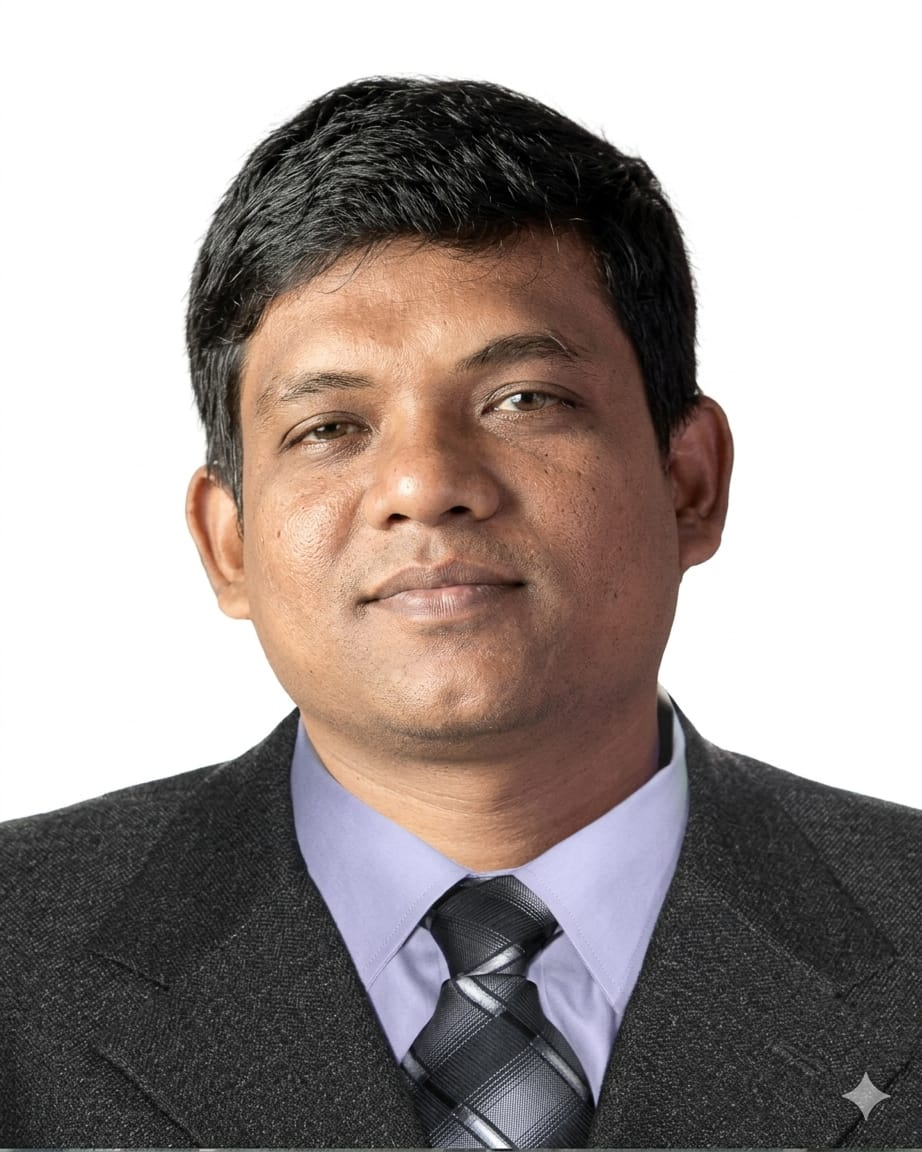
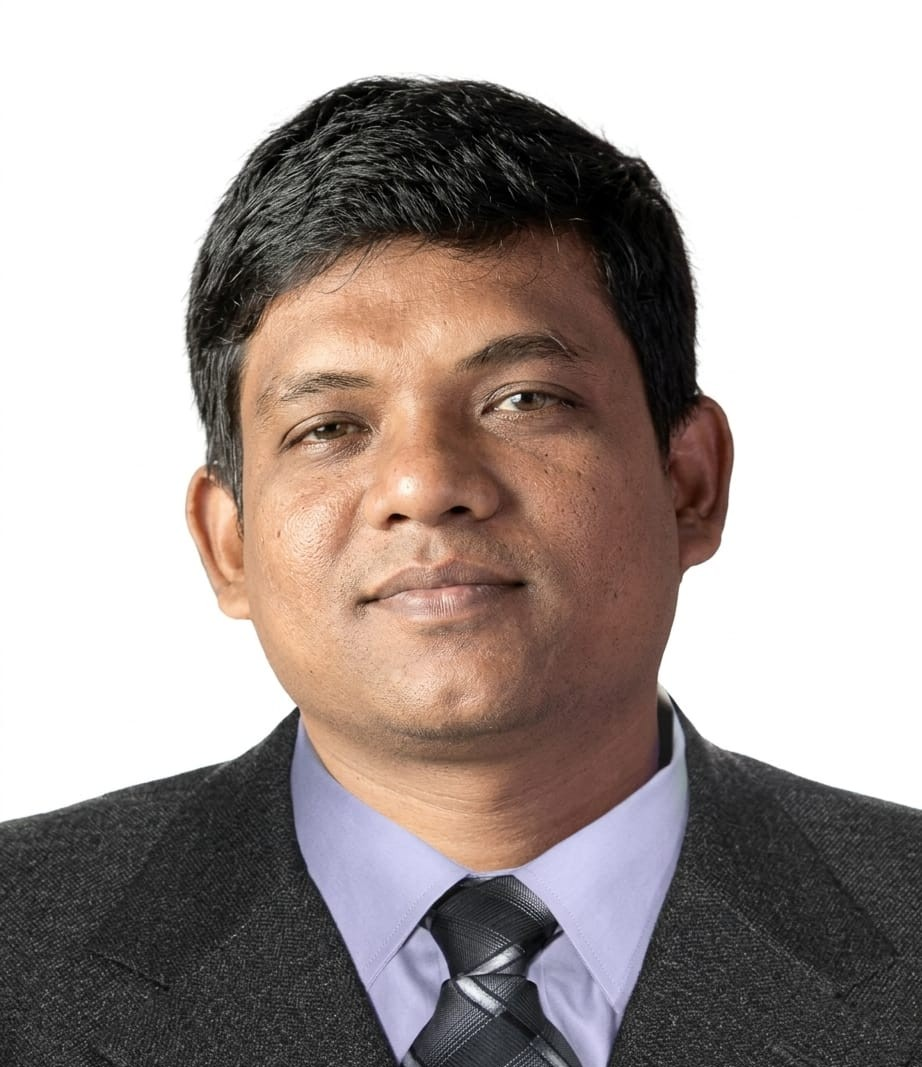
image bug fix

diff --git a/assets/js/site.js b/assets/js/site.js
@@ -85,20 +85,26 @@
           <div>
             <img src="${path(data.company.logo)}" alt="" class="footer-logo">
             <p>${data.company.slogan}</p>
-            ${data.company.facebook ? `<div style="margin-top: 1.5rem;"><a href="${data.company.facebook}" target="_blank" rel="noopener noreferrer" style="display: inline-flex; align-items: center; gap: 8px; color: inherit; text-decoration: none; opacity: 0.8; transition: opacity 0.2s;" onmouseover="this.style.opacity='1'" onmouseout="this.style.opacity='0.8'"><svg width="24" height="24" fill="currentColor" viewBox="0 0 24 24"><path d="M22.675 0h-21.35c-.732 0-1.325.593-1.325 1.325v21.351c0 .731.593 1.324 1.325 1.324h11.495v-9.294h-3.128v-3.622h3.128v-2.671c0-3.1 1.893-4.788 4.659-4.788 1.325 0 2.463.099 2.795.143v3.24l-1.918.001c-1.504 0-1.795.715-1.795 1.763v2.312h3.587l-.467 3.622h-3.12v9.293h6.116c.73 0 1.323-.593 1.323-1.325v-21.35c0-.732-.593-1.325-1.325-1.325z"/></svg> Facebook Page</a></div>` : ''}
           </div>
           <div>
             <h3>Products</h3>
             ${data.products.slice(0, 6).map((item) => `<a href="${path(item.href)}">${item.name}</a>`).join("")}
           </div>
-          <div>
+          <div class="footer-contact">
             <h3>Contact</h3>
-            <p><strong>Office:</strong><br>${data.company.address}</p>
-            <a href="tel:${data.company.phone.replace(/[\s\.]/g, "")}">${data.company.phone}</a>
-            ${data.company.phone2 ? `<a href="tel:${data.company.phone2.replace(/[\s\.]/g, "")}">${data.company.phone2}</a>` : ''}
-            <a href="mailto:${data.company.email}">${data.company.email}</a>
-            <p><strong>Sub Station Factory:</strong><br>${data.company.factoryAddress}</p>
-            <p><strong>Generator Warehouse:</strong><br>${data.company.warehouseAddress}</p>
+            <div class="footer-contact-grid">
+              <div>
+                <p><strong>Office:</strong><br>${data.company.address}</p>
+                <a href="tel:${data.company.phone.replace(/[\s\.]/g, "")}">${data.company.phone}</a>
+                ${data.company.phone2 ? `<a href="tel:${data.company.phone2.replace(/[\s\.]/g, "")}">${data.company.phone2}</a>` : ''}
+                <a href="mailto:${data.company.email}">${data.company.email}</a>
+              </div>
+              <div>
+                <p><strong>Sub Station Factory:</strong><br>${data.company.factoryAddress}</p>
+                <p><strong>Generator Warehouse:</strong><br>${data.company.warehouseAddress}</p>
+                ${data.company.facebook ? `<div style="margin-top: 1.5rem;"><a href="${data.company.facebook}" target="_blank" rel="noopener noreferrer" style="display: inline-flex; align-items: center; gap: 8px; color: inherit; text-decoration: none; opacity: 0.8; transition: opacity 0.2s;" onmouseover="this.style.opacity='1'" onmouseout="this.style.opacity='0.8'"><svg width="24" height="24" fill="currentColor" viewBox="0 0 24 24"><path d="M22.675 0h-21.35c-.732 0-1.325.593-1.325 1.325v21.351c0 .731.593 1.324 1.325 1.324h11.495v-9.294h-3.128v-3.622h3.128v-2.671c0-3.1 1.893-4.788 4.659-4.788 1.325 0 2.463.099 2.795.143v3.24l-1.918.001c-1.504 0-1.795.715-1.795 1.763v2.312h3.587l-.467 3.622h-3.12v9.293h6.116c.73 0 1.323-.593 1.323-1.325v-21.35c0-.732-.593-1.325-1.325-1.325z"/></svg> Facebook Page</a></div>` : ''}
+              </div>
+            </div>
           </div>
         </div>
       </footer>
@@ -450,6 +456,7 @@
           <h2>${data.company.name}</h2>
           <p><strong>Office:</strong> ${data.company.address}</p>
           <p><strong>Phone:</strong> ${data.company.phone}${data.company.phone2 ? `, ${data.company.phone2}` : ''}</p>
+          ${data.company.facebook ? `<p><strong>Facebook:</strong> <a href="${data.company.facebook}" target="_blank" rel="noopener noreferrer">Power Load BD</a></p>` : ''}
           <p><strong>Email:</strong> ${data.company.email}</p>
           <p><strong>Sub Station Factory:</strong> ${data.company.factoryAddress}</p>
           <p><strong>Generator Warehouse:</strong> ${data.company.warehouseAddress}</p>

diff --git a/assets/css/styles.css b/assets/css/styles.css
@@ -681,8 +681,14 @@ tr:nth-child(even) td {
 
 .footer-inner {
   display: grid;
-  grid-template-columns: minmax(0, 1.2fr) minmax(180px, .8fr) minmax(220px, 1fr);
+  grid-template-columns: minmax(0, 1.1fr) minmax(160px, .7fr) minmax(360px, 2fr);
   gap: 34px;
+}
+
+.footer-contact-grid {
+  display: grid;
+  grid-template-columns: 1fr 1fr;
+  gap: 24px;
 }
 
 .footer-logo {
@@ -819,6 +825,7 @@ tr:nth-child(even) td {
   .product-detail,
   .project-intro,
   .contact-grid,
+  .footer-contact-grid,
   .footer-inner {
     grid-template-columns: 1fr;
   }
@@ -909,7 +916,8 @@ tr:nth-child(even) td {
 
   .person-card img,
   .person-card .avatar {
-    height: 260px;
+    height: auto;
+    aspect-ratio: 4 / 5;
   }
 
   .archive-gallery {